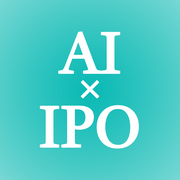
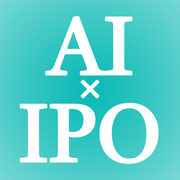
feat: 日本版アイコンの文字を最大化（米国版と同サイズ）
Claude-Session: https://claude.ai/code/session_017tvwVRJdWYQTJP1xZEx9KP

Changed region(s): [[0.0833, 0.0833, 0.8889, 0.9167]]

diff --git a/src/app/layout.tsx b/src/app/layout.tsx
@@ -53,13 +53,13 @@ export default function RootLayout({ children }: { children: React.ReactNode }) 
         <link href="https://fonts.googleapis.com/css2?family=Noto+Sans+JP:wght@400;500;700;900&display=swap" rel="stylesheet" />
         {/* 2026/9/6追加: 「ホーム画面に追加(PWA化)」対応。manifest・アイコン・テーマカラーを設定し、
             Service Workerを登録する(オフラインキャッシュ等は行わず、インストール可能にするための最低限の対応)。 */}
-        <link rel="manifest" href="/manifest.json?v=2" />
+        <link rel="manifest" href="/manifest.json?v=3" />
         <meta name="theme-color" content="#0d4f52" />
-        {/* 2026/10/29追加: ホーム画面に追加したときのアイコン名(iPhone用)と、新アイコン(?v=2は古いアイコンの記憶を避けるための印) */}
+        {/* 2026/10/29追加: ホーム画面に追加したときのアイコン名(iPhone用)と、新アイコン(?v=3は古いアイコンの記憶を避けるための印) */}
         <meta name="apple-mobile-web-app-title" content="AI×IPO" />
         <meta name="apple-mobile-web-app-capable" content="yes" />
-        <link rel="apple-touch-icon" href="/apple-touch-icon.png?v=2" />
-        <link rel="icon" href="/icon-192.png?v=2" type="image/png" />
+        <link rel="apple-touch-icon" href="/apple-touch-icon.png?v=3" />
+        <link rel="icon" href="/icon-192.png?v=3" type="image/png" />
         <script type="application/ld+json" dangerouslySetInnerHTML={{ __html: JSON.stringify(organizationJsonLd) }} />
         <Script src={`https://www.googletagmanager.com/gtag/js?id=${GA_ID}`} strategy="afterInteractive" />
         <Script id="ga4-init" strategy="afterInteractive">{`

diff --git a/src/app/install/page.tsx b/src/app/install/page.tsx
@@ -56,7 +56,7 @@ export default function InstallPage() {
 
         <div style={{ ...card, display: "flex", gap: 14, alignItems: "center" }}>
           {/* eslint-disable-next-line @next/next/no-img-element */}
-          <img src="/icon-192.png?v=2" alt="ホーム画面に表示されるアイコン" width={72} height={72} style={{ borderRadius: 16, flexShrink: 0 }} />
+          <img src="/icon-192.png?v=3" alt="ホーム画面に表示されるアイコン" width={72} height={72} style={{ borderRadius: 16, flexShrink: 0 }} />
           <div style={{ fontSize: 13, color: "#475569", lineHeight: 1.8 }}>
             追加すると、ホーム画面にこのアイコンが並びます。タップすると、ブラウザの枠（アドレス欄）がない、アプリのような画面で開きます。
           </div>

diff --git a/src/components/InstallPwaButton.tsx b/src/components/InstallPwaButton.tsx
@@ -110,7 +110,7 @@ export default function InstallPwaButton() {
         boxShadow: "0 6px 20px rgba(0,0,0,0.25)",
       }}>
         {/* eslint-disable-next-line @next/next/no-img-element */}
-        <img src="/icon-192.png?v=2" alt="" width={40} height={40} style={{ borderRadius: 9, flexShrink: 0 }} />
+        <img src="/icon-192.png?v=3" alt="" width={40} height={40} style={{ borderRadius: 9, flexShrink: 0 }} />
         <div style={{ flex: 1, minWidth: 0 }}>
           <div style={{ fontSize: 13, fontWeight: 900, color: "#ffffff", lineHeight: 1.4 }}>ホーム画面に追加できます</div>
           <div style={{ fontSize: 11, color: "#a0d4d6", lineHeight: 1.4 }}>タップ1回で、最新のIPO情報へ</div>

diff --git a/src/lib/referral.ts b/src/lib/referral.ts
@@ -2,7 +2,7 @@
 //
 // 以前の問題: /api/referral がブラウザから送られてきた user_id をそのまま信じていたため、
 // 自分の紹介コードと架空のIDを何度も送るだけで、紹介実績と無料期間をいくらでも増やせた
-// (「先着100名」の枠も架空の紹介で埋められた)。
+// (「先着300名」の枠も架空の紹介で埋められた)。
 //
 // 新しい仕組み:
 //  1. 登録画面では、入力された紹介コードをその人のアカウント情報(user_metadata.pending_referral_code)に
